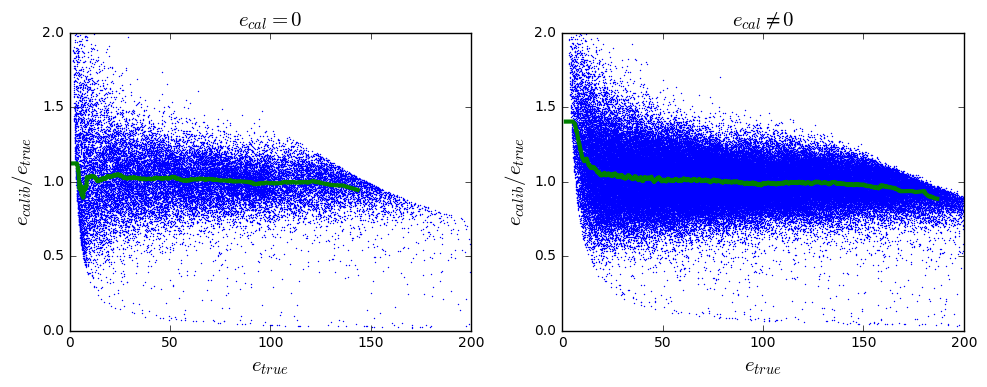
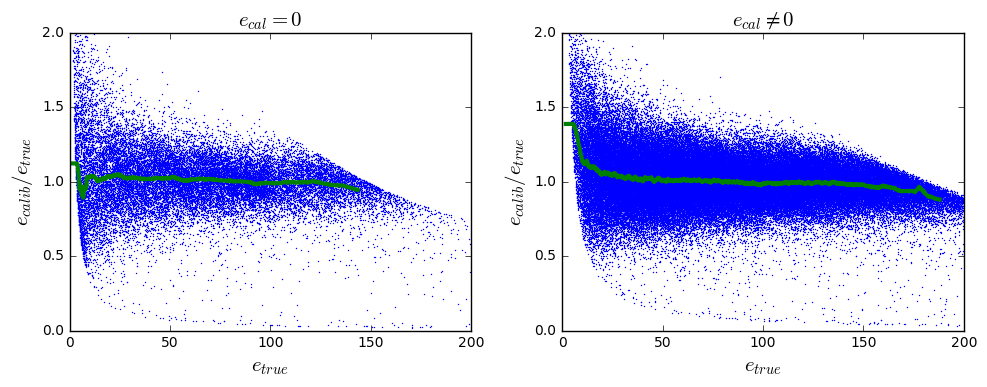
energy step

Changed region(s): [[0.5775, 0.093, 0.9726, 0.7132], [0.7903, 0.6512, 0.8207, 0.6822]]

diff --git a/pfcalibration/KNNGaussianFit.py b/pfcalibration/KNNGaussianFit.py
@@ -369,7 +369,7 @@ class KNNGaussianFit:
         ecal_min = (max(ecal)+min(ecal))/2
         # we evaluate the true energies
         hcal = np.linspace(hcal_min,self.lim,(self.lim-hcal_min)/energystep_ecal_neq_0)
-        ecal = np.linspace(ecal_min,self.lim,(self.lim-ecal_min)/energystep_ecal_eq_0)
+        ecal = np.linspace(ecal_min,self.lim,(self.lim-ecal_min)/energystep_ecal_neq_0)
         eecal, hhcal = np.meshgrid(ecal,hcal)
         vect = np.vectorize(forOnePoint_ecal_neq_0)
         true = vect(eecal,hhcal)
